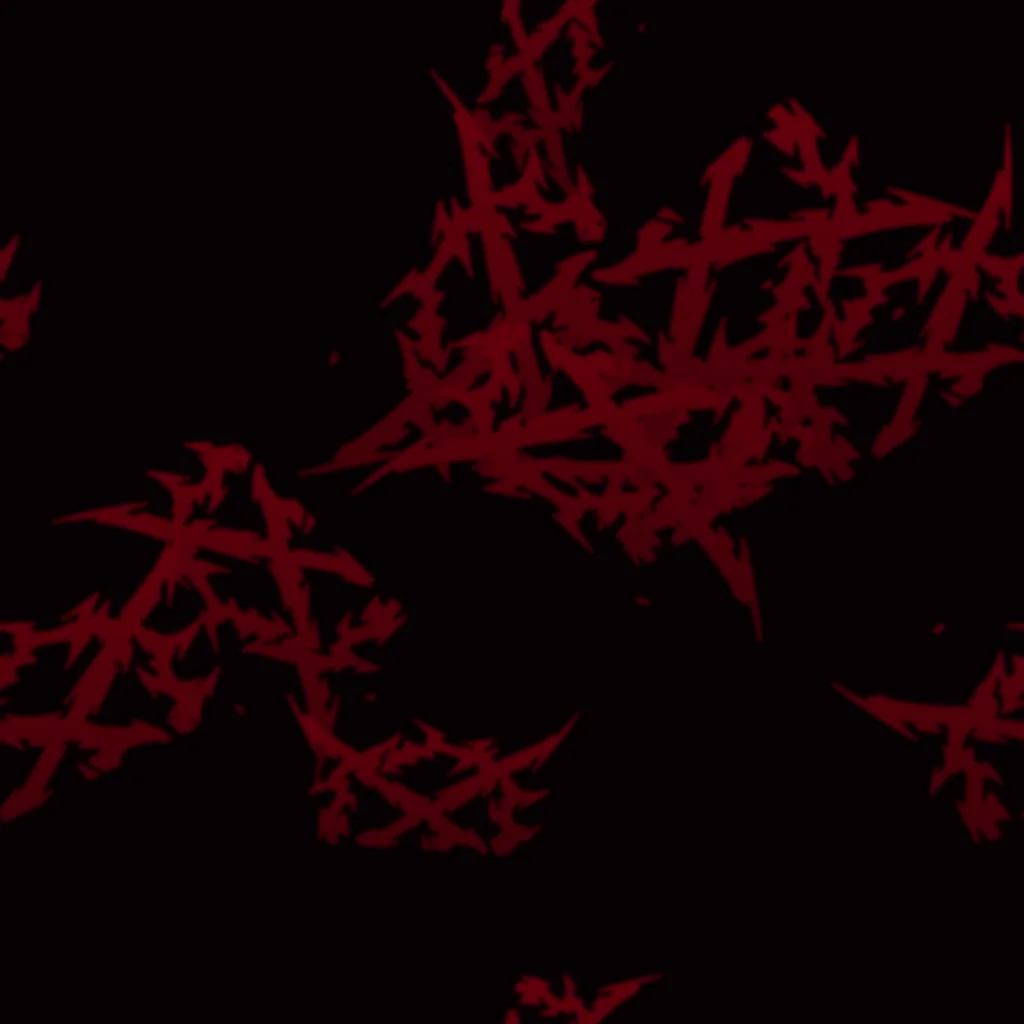
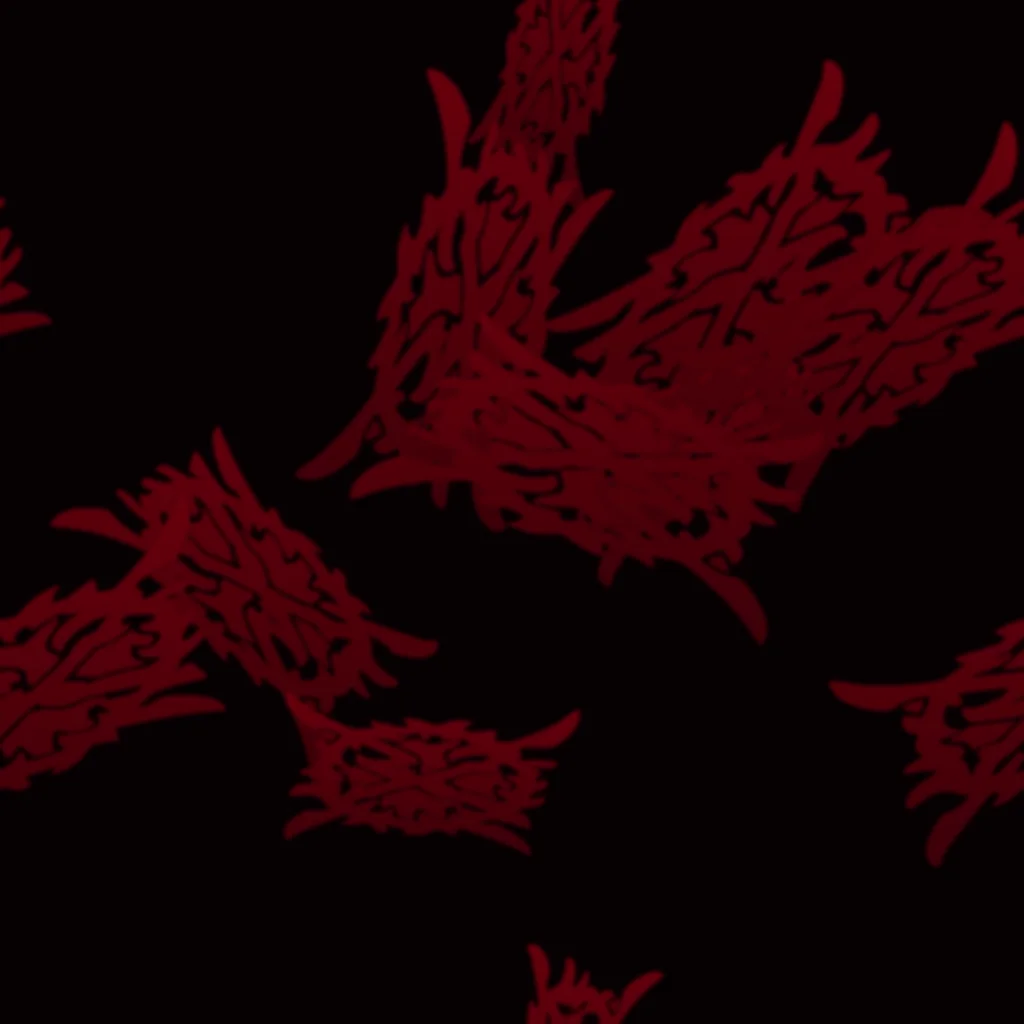
Jar: every symbol is the owner's clean symbol, stretched to the original cut-outs' proportions
Claude-Session: https://claude.ai/code/session_015rc9MQC6xqspTEWMJWTMxb

diff --git a/jar/index.html b/jar/index.html
@@ -31,7 +31,7 @@ document.body.appendChild(MBNav.create({
 </script>
 <script type="importmap">{ "imports": { "three": "./vendor/three.module.min.js" } }</script>
 <script type="module">
-import { mount } from './jar.js?v=8'
+import { mount } from './jar.js?v=9'
 window.__jar = mount(document.getElementById('jar'))
 // header leaf: the site's stacked-alpha still (colour on top, mask below) painted into the canvas
 const im = new Image(); im.onload = () => {
